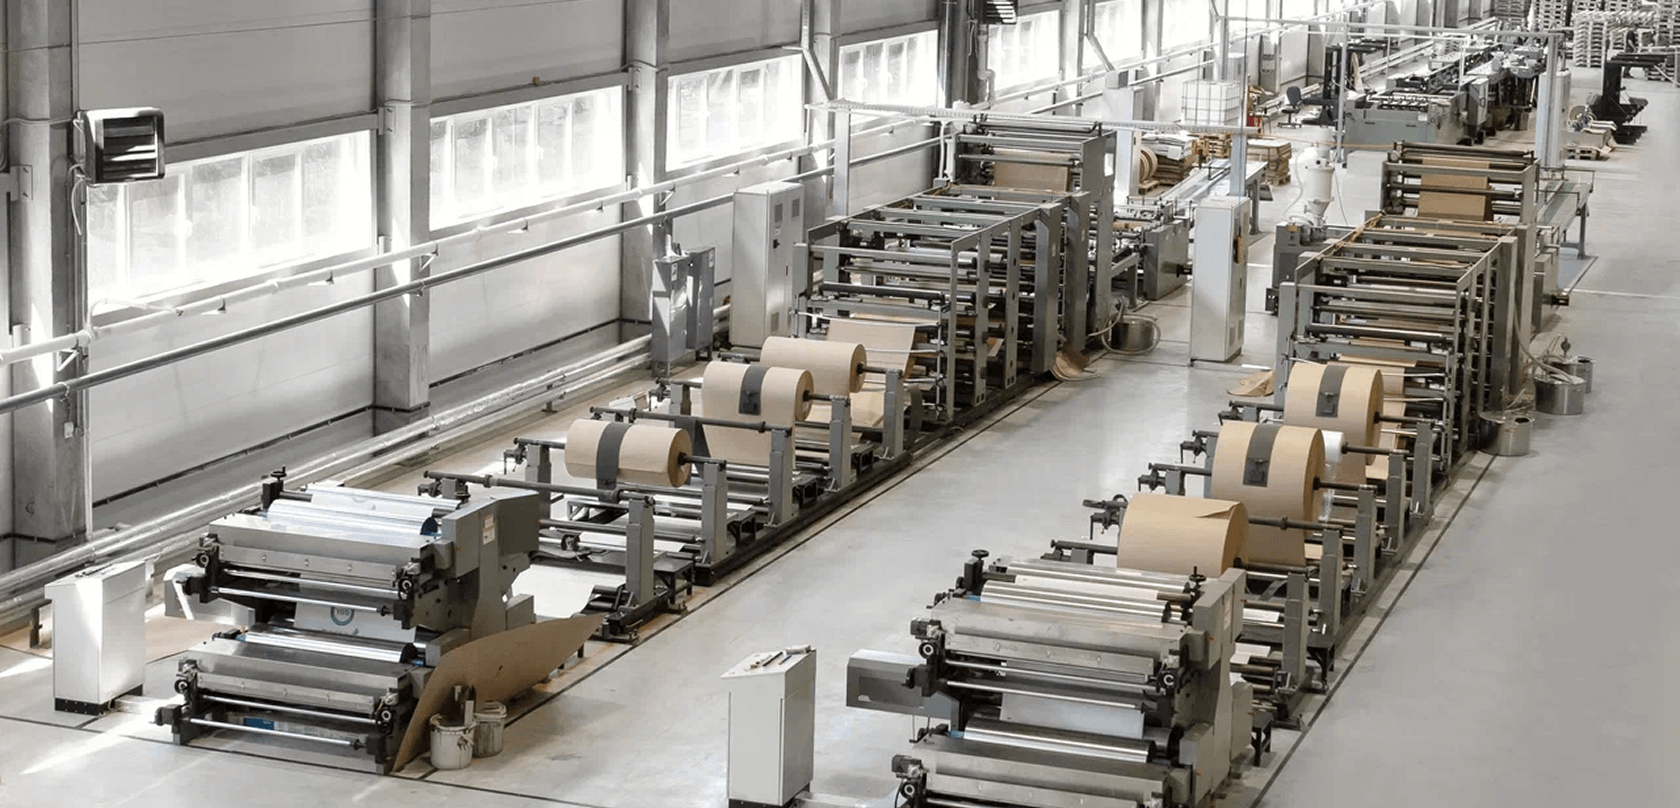
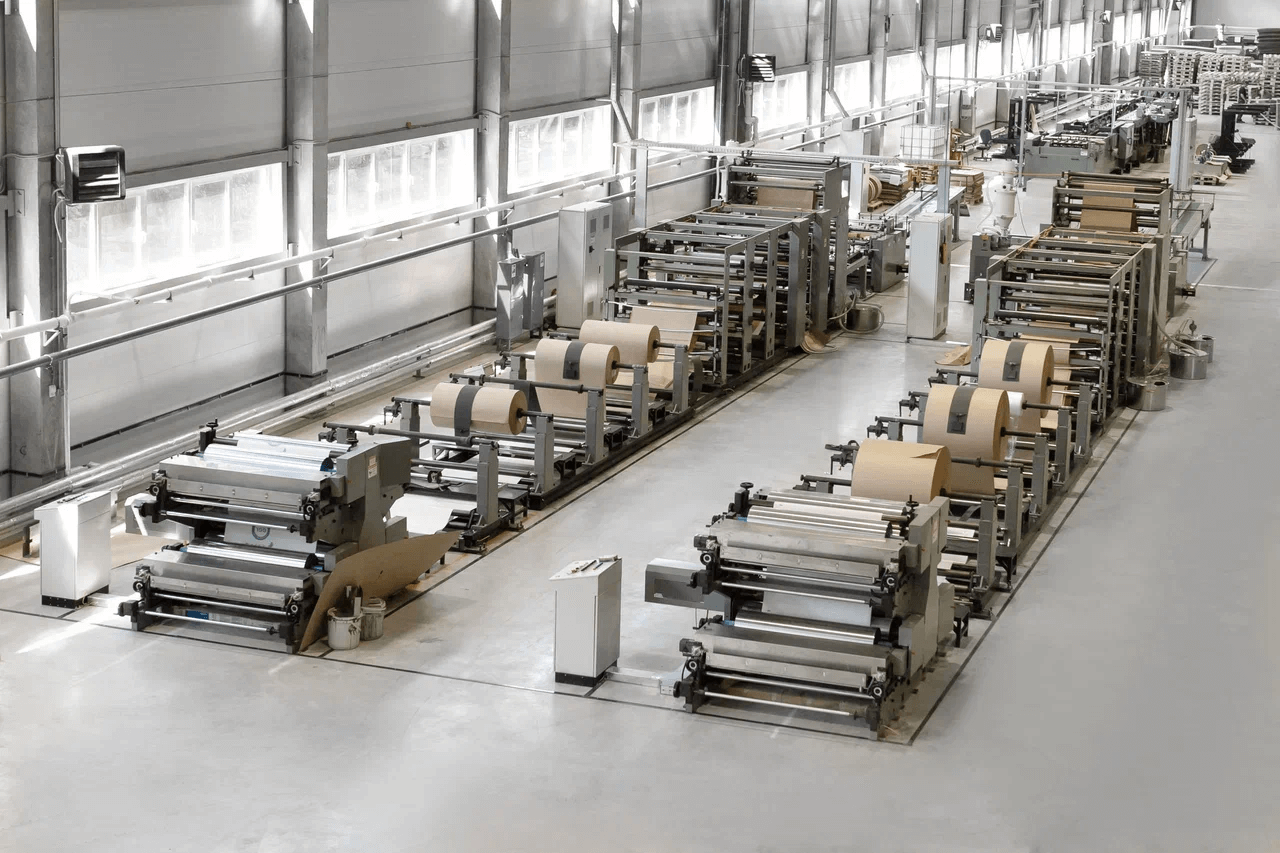
верстка footer
- Верстка footer приведена к макету
- поправил верстку кнопки меню header для мобильной версии
- заменил заглавную картинку в слайдере и поправил её отображение согласно макету
- добавил скрипт разворачивания проекта на git Pages

diff --git a/src/index.html b/src/index.html
@@ -174,7 +174,7 @@
                 Экологичность
               </h3>
               <p class="specs-list__subtitle">
-                Formabox производит упаковку из экологичных материалов
+                Formabox производит упаковку из&nbsp;экологичных материалов
               </p>
             </div>
           </li>
@@ -196,7 +196,7 @@
                 12 млн <span>м&#178;</span>
               </h3>
               <p class="specs-list__subtitle">
-                Гофрокартона и гофропродукции в месяц
+                Гофрокартона и&nbsp;гофропродукции в&nbsp;месяц
               </p>
             </div>
           </li>
@@ -433,44 +433,24 @@
           </p>
         </div>
         <form id="submit-form" class="feedback-form__form" name="submit-form" novalidate>
-          <input id="name-input"
-          name="name-input"
-          class="feedback-form__input" 
-          placeholder="Ваше имя" 
-          type="text" 
-          required 
-          minlength="2"
-          maxlength="124" 
-          pattern="^[а-яА-ЯёЁa-zA-Z\s_\-]+$"
-          data-error-message="Разрешены только латинские буквы, кириллические буквы, знаки дефиса и пробелы." 
-          />
-          <span id="name-input-error" class="feedback-form__input-error name-input-error feedback-form__input-error_active"></span>
+          <input id="name-input" name="name-input" class="feedback-form__input" placeholder="Ваше имя" type="text"
+            required minlength="2" maxlength="124" pattern="^[а-яА-ЯёЁa-zA-Z\s_\-]+$"
+            data-error-message="Разрешены только латинские буквы, кириллические буквы, знаки дефиса и пробелы." />
+          <span id="name-input-error"
+            class="feedback-form__input-error name-input-error feedback-form__input-error_active"></span>
 
-          <input id="telephon-input" 
-          name="telephon-input" 
-          class="feedback-form__input" 
-          placeholder="Телефон" 
-          type="tel" 
-          required
-          minlength="6" 
-          maxlength="16" 
-          pattern="^[\+]?[\(]?[0-9]{3}[\)]?[\-\s\.]?[0-9]{3}[\-\s\.]?[0-9]{4,6}$"
-          data-error-message="Введен некорректный номер телефона" 
-          />
-          <span id="telephon-input-error" class="feedback-form__input-error telephon-input-error feedback-form__input-error_active"></span>
+          <input id="telephon-input" name="telephon-input" class="feedback-form__input" placeholder="Телефон" type="tel"
+            required minlength="6" maxlength="16"
+            pattern="^[\+]?[\(]?[0-9]{3}[\)]?[\-\s\.]?[0-9]{3}[\-\s\.]?[0-9]{4,6}$"
+            data-error-message="Введен некорректный номер телефона" />
+          <span id="telephon-input-error"
+            class="feedback-form__input-error telephon-input-error feedback-form__input-error_active"></span>
 
-          <input id="email-input" 
-          name="email-input" 
-          class="feedback-form__input" 
-          placeholder="Эл. почта" 
-          type="email" 
-          required
-          minlength="4" 
-          maxlength="124" 
-          pattern="^\w+@[a-zA-Z_]+?\.[a-zA-Z]{2,3}$"
-          data-error-message="Введен некорректный адрес электронной почты" 
-          />
-          <span id="email-input-error" class="feedback-form__input-error email-input-error feedback-form__input-error_active"></span>
+          <input id="email-input" name="email-input" class="feedback-form__input" placeholder="Эл. почта" type="email"
+            required minlength="4" maxlength="124" pattern="^\w+@[a-zA-Z_]+?\.[a-zA-Z]{2,3}$"
+            data-error-message="Введен некорректный адрес электронной почты" />
+          <span id="email-input-error"
+            class="feedback-form__input-error email-input-error feedback-form__input-error_active"></span>
 
           <button class="feedback-form__button feedback-form__button_inactive" type="submit">
             Отправить
@@ -481,52 +461,63 @@
     </main>
 
     <footer class="footer">
-      <img class="footer__logo" src="<%=require('./img/logo/logo-orange.svg')%>" alt="логотип компании Formabox" />
+      <div class="footer__logo-container">
+        <img class="footer__logo" src="<%=require('./img/logo/logo-orange.svg')%>" alt="логотип компании Formabox" />
+      </div>
 
-      <nav style="visibility: hidden; display: none">
-        <a>О нас</a>
-        <a>Продукция</a>
-        <a>Услуги</a>
-        <a>Новости</a>
-        <a>Вакансии</a>
-        <a>Контакты</a>
-        <a>Консультация</a>
-        <a>Связаться</a>
-        <a>Оставить заявку</a>
+      <nav class="footer__navigation-links">
+        <a class="footer__navigation-link" href="#">О нас</a>
+        <a class="footer__navigation-link" href="#">Продукция</a>
+        <a class="footer__navigation-link" href="#">Услуги</a>
+        <a class="footer__navigation-link" href="#">Новости</a>
+        <a class="footer__navigation-link" href="#">Вакансии</a>
+        <a class="footer__navigation-link" href="#">Контакты</a>
+        <a class="footer__navigation-link" href="#">Консультация</a>
+        <a class="footer__navigation-link" href="#">Связаться</a>
+        <a class="footer__navigation-link" href="#">Оставить заявку</a>
       </nav>
 
-      <p class="footer__contacts-text footer__adress">
-        600016, Владимирская&nbsp;область, г.&nbsp;Владимир,<br />
-        ул.&nbsp;Большая&nbsp;Нижегородская, д.&nbsp;79
-        <br /><br />
-        Время работы:<br />пн–пт с&nbsp;9:00 до&nbsp;18:00
-      </p>
-
-      <div class="footer__contacts-container">
-        <p class="footer__contacts-text">
-          <img src="<%=require('./img/icons/phone.svg')%>" alt="иконка телефона" />+7 (4922) 40-49-37
+      <div class="footer__adress-container">
+        <p class="footer__contact-text footer__adress">
+          600016, Владимирская&nbsp;область, г.&nbsp;Владимир,<br />
+          ул.&nbsp;Большая&nbsp;Нижегородская, д.&nbsp;79
         </p>
-        <p class="footer__contacts-text">
-          <img src="<%=require('./img/icons/mail.svg')%>" alt="иконка электронной почты" />sales@forma-box.ru
+        <p class="footer__contact-text footer__adress">
+          Время работы:<br />пн–пт с&nbsp;9:00 до&nbsp;18:00
         </p>
       </div>
 
-      <p class="footer__border-top-style_dashed footer__text footer__text-color">
-        Держите ваш бизнес в форме
+      <div class="footer__contacts-container">
+        <div class="footer__contact">
+          <img src="<%=require('./img/icons/phone.svg')%>" alt="иконка телефона" />
+          <p class="footer__contact-text">+7 (4922) 40-49-37</p>
+        </div>
+        <div class="footer__contact">
+          <img src="<%=require('./img/icons/mail.svg')%>" alt="иконка электронной почты" />
+          <p class="footer__contact-text">sales@forma-box.ru</p>
+        </div>
+      </div>
+
+      <p class="footer__border-top-style_dashed footer__text footer__text_size_bg footer__text-color">
+        Держите ваш бизнес в&nbsp;форме
       </p>
-      <p class="footer__border-top-style_dashed footer__text footer__text-color">
-        Общество с ограниченной ответственностью «Формабокс» Formabox, LLC
-      </p>
-      <p class="footer__border-top-style_solid footer__text footer__text-color">
-        Политика конфиденциальности
-      </p>
-      <p class="footer__border-top-style_solid footer__text footer__text-color">
-        © «Formabox», 2022
-      </p>
+
+      <div class="footer__disclaimer-container">
+        <div class="footer__conf-policy-wrap">
+          <p class="footer__border-top-style_dashed footer__text footer__text-color">
+            Общество с ограниченной ответственностью «Формабокс» Formabox, LLC
+          </p>
+          <a href="#" class="footer__border-top-style_solid footer__text footer__text-color footer__text_type_link">
+            Политика конфиденциальности
+          </a>
+        </div>
+
+        <p class="footer__border-top-style_solid footer__text footer__text-color">
+          © «Formabox», 2022
+        </p>
+      </div>
     </footer>
   </div>
-
-
 </body>
 
 </html>

diff --git a/src/blocks/footer/footer.css b/src/blocks/footer/footer.css
@@ -8,6 +8,11 @@
   box-sizing: border-box;
 }
 
+.footer__logo-container {
+  width: 100%;
+  height: 60px;
+}
+
 .footer__logo {
   width: 103px;
   height: 60px;
@@ -22,8 +27,23 @@
 }
 
 .footer__text {
-  padding: 16px 0;
+  padding: 15px 0 16px;
   width: 100%;
+  font-family: Graphik LCG;
+  font-weight: 400;
+  font-size: 14px;
+  line-height: 20px;
+}
+
+.footer__text_size_bg {
+  font-weight: 500;
+  font-size: 24px;
+  line-height: 32px;
+}
+
+.footer__text_type_link {
+  display: block;
+  text-decoration: none;
 }
 
 .footer__text-color {
@@ -31,8 +51,7 @@
 }
 
 .footer__adress {
-    margin-top: 32px;
-    width: 100%;
+  width: 100%;
 }
 
 .footer__contacts-container {
@@ -42,10 +61,37 @@
   margin: 21px 0 30px;
 }
 
-.footer__contacts-text {
+.footer__contact {
+  display: flex;
+  flex-direction: row;
+  gap: 16px;
+}
+
+.footer__contact-text {
   font-family: Graphik LCG;
   font-weight: 400;
   font-size: 14px;
   line-height: 20px;
   letter-spacing: 0%;
+}
+
+.footer__navigation-links {
+  display: none;
+}
+
+.footer__navigation-link {
+  text-decoration: none;
+  color: #000000;
+  font-family: Graphik LCG;
+  font-weight: 400;
+  font-size: 16px;
+  line-height: 100%;
+}
+
+.footer__adress-container {
+  margin-top: 32px;
+  width: 100%;
+  display: flex;
+  flex-direction: column;
+  gap: 20px;
 }

diff --git a/src/blocks/slider/slider.css b/src/blocks/slider/slider.css
@@ -31,9 +31,11 @@
 }
 
 .slider__image {
-    object-fit: cover;
-    width: 100%;
     height: 100%;
+    -o-object-fit: cover;
+    object-fit: contain;
+    margin-left: -380px;
+    margin-top: -2px;
 }
 
 .slider__text-container {
@@ -115,6 +117,7 @@
     background-color: #38AB57;
 }
 
-.slider .swiper-button-prev, .slider .swiper-button-next {
+.slider .swiper-button-prev,
+.slider .swiper-button-next {
     visibility: hidden;
 }

diff --git a/src/blocks/header/header.css b/src/blocks/header/header.css
@@ -7,6 +7,7 @@
   display: flex;
   flex-direction: row;
   justify-content: space-between;
+  align-items: center;
   padding: 10px 16px;
   box-sizing: border-box;
   z-index: 20;
@@ -21,6 +22,9 @@
   background: none;
   border: none;
   cursor: pointer;
+  padding: 0;
+  height: 24px;
+  width: 24px;
 }
 
 .header__menu-icon {
